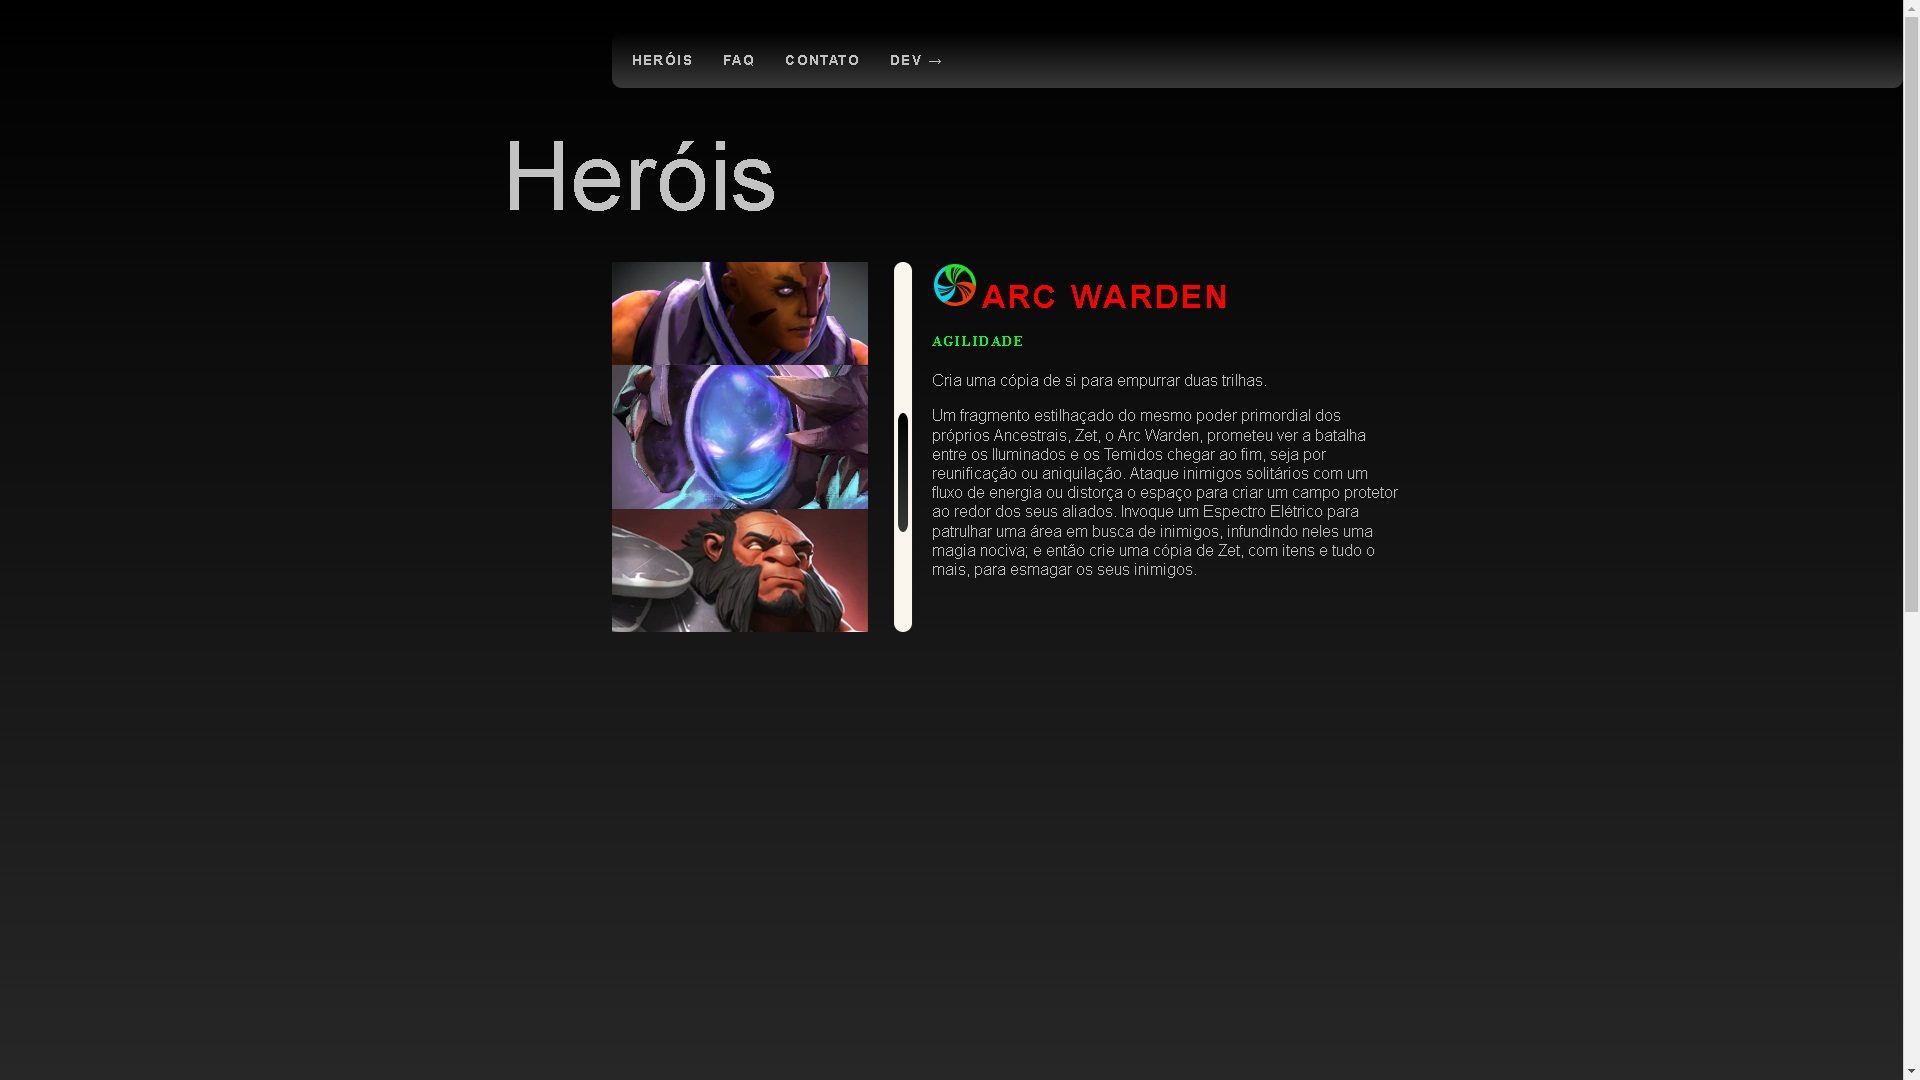
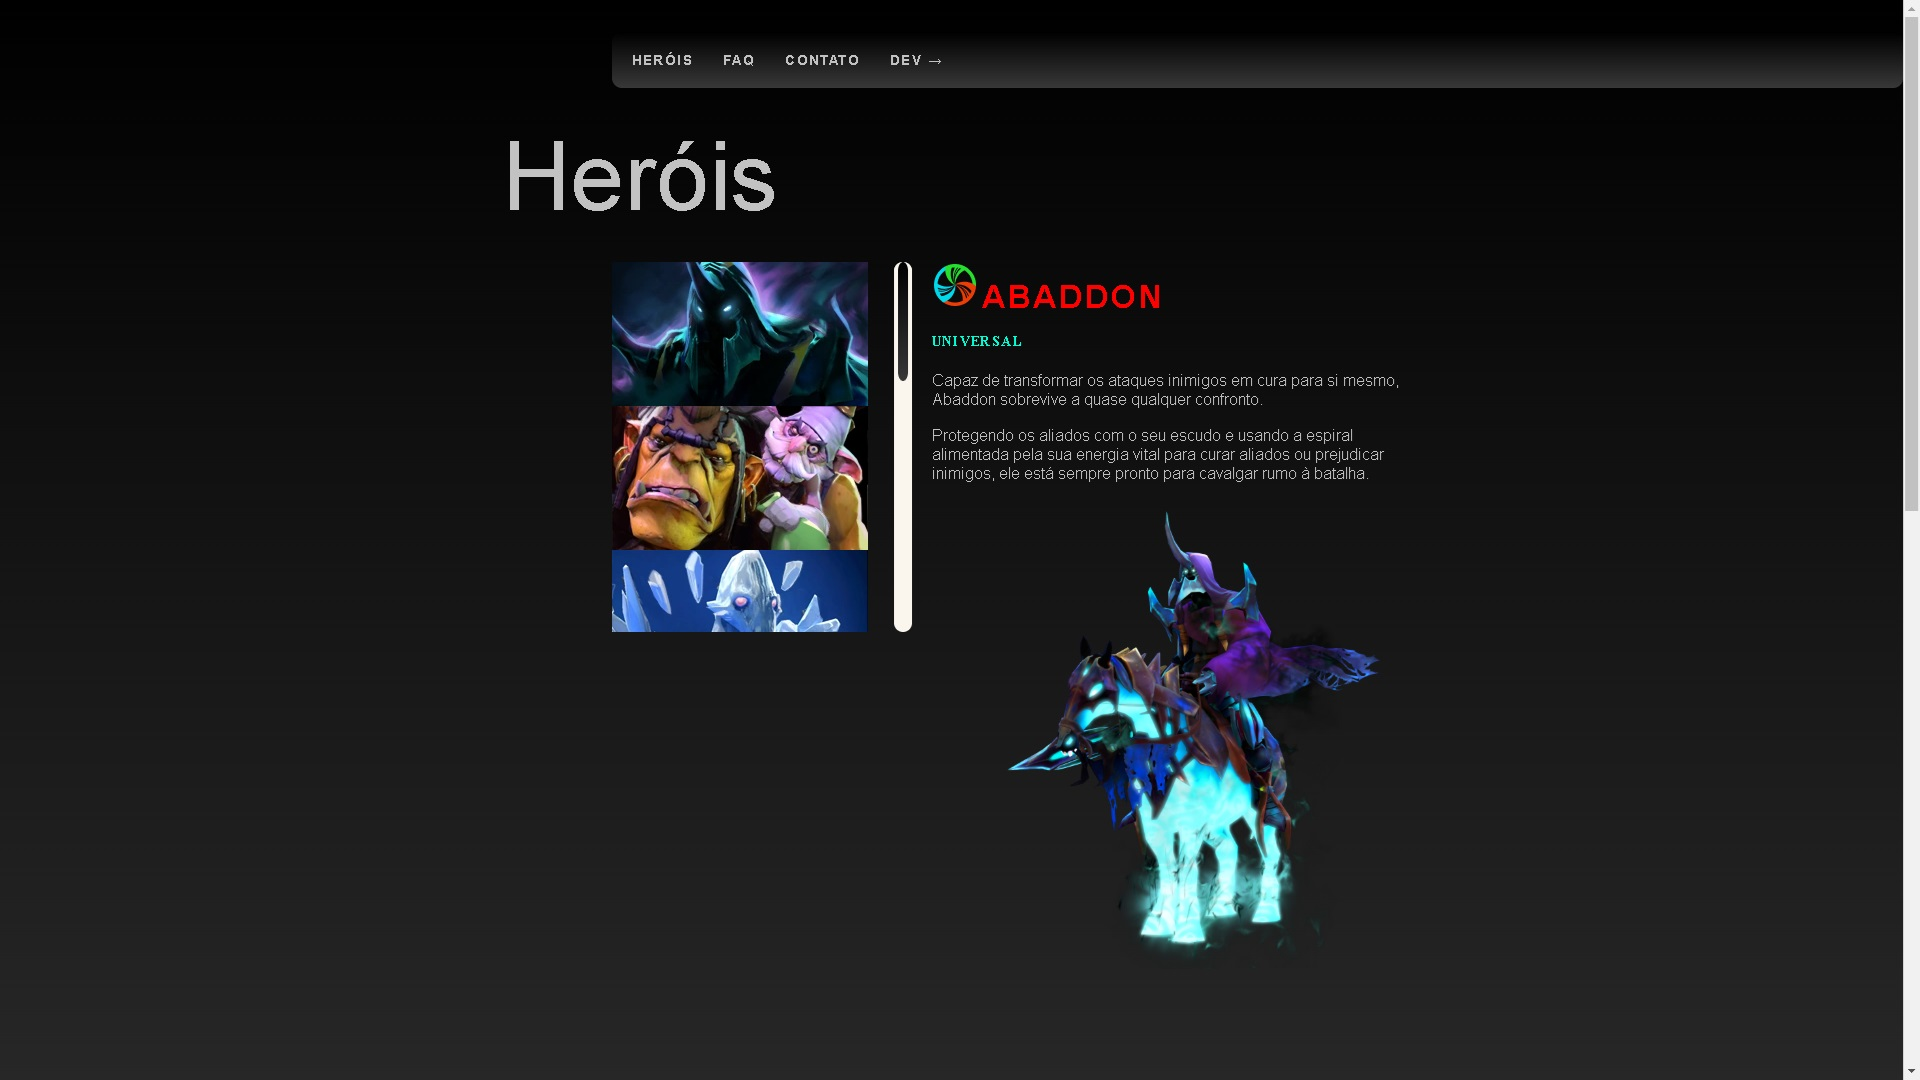
Adicionado o icone dos herois

Changed region(s): [[0.3125, 0.2444, 0.7188, 0.8861], [0.5312, 0.2444, 0.6562, 0.3056], [0.9688, 0.4583, 1.0, 0.5806]]

diff --git a/index.html b/index.html
@@ -58,6 +58,7 @@
         </div>
         <p>Capaz de transformar os ataques inimigos em cura para si mesmo, Abaddon sobrevive a quase qualquer confronto.</p>
         <p>Protegendo os aliados com o seu escudo e usando a espiral alimentada pela sua energia vital para curar aliados ou prejudicar inimigos, ele está sempre pronto para cavalgar rumo à batalha.</p>
+        <img src="./img/abaddon.png">
       </section>
       
       <section>
@@ -71,6 +72,7 @@
         </div>
         <p>Sintetizando recursos extras a partir de cada uma das suas vítimas, o Alchemist não tem problemas para adquirir as ferramentas necessárias para destruir os seus inimigos.</p>
         <p>Emboscando inimigos com ácidos corrosivos e misturas químicas instáveis, ele batalha para garantir que as suas ambiciosas escapadas continuem ininterruptas.</p>
+        <img src="./img/alchemist.png">
       </section>
       
       <section>
@@ -84,6 +86,7 @@
         </div>
         <p>Lança uma poderosa explosão gélida de qualquer lugar do mapa.</p>
         <p>Capaz de lançar uma poderosa explosão de gelo dilacerante através do campo de batalha, o Ancient Apparition pode estilhaçar inimigos enfraquecidos onde quer que estejam. Retardando os seus inimigos à medida que aumenta a efetividade dos seus aliados durante as batalhas, ele é uma ameaça constante aos seus adversários.</p>
+        <img src="./img/ancient_apparition.png">
       </section>
       
       <section>
@@ -98,6 +101,7 @@
         </div>
         <p>Corta os seus inimigos com ataques que drenam mana.</p>
         <p>Caso o Anti-Mage tenha a oportunidade de reunir toda a sua força, poucos podem frear as suas investidas. Drenando o mana dos seus inimigos a cada ataque ou se teletransportando por pequenas distâncias para fugir de uma emboscada, encurralá-lo é um desafio para qualquer inimigo.</p>
+        <img src="./img/antimage.png">
       </section>
       
       <section>
@@ -111,6 +115,7 @@
         </div>
         <p>Cria uma cópia de si para empurrar duas trilhas.</p>
         <p>Um fragmento estilhaçado do mesmo poder primordial dos próprios Ancestrais, Zet, o Arc Warden, prometeu ver a batalha entre os Iluminados e os Temidos chegar ao fim, seja por reunificação ou aniquilação. Ataque inimigos solitários com um fluxo de energia ou distorça o espaço para criar um campo protetor ao redor dos seus aliados. Invoque um Espectro Elétrico para patrulhar uma área em busca de inimigos, infundindo neles uma magia nociva; e então crie uma cópia de Zet, com itens e tudo o mais, para esmagar os seus inimigos.</p>
+        <img src="./img/arc_warden.png">
       </section>
       
       <section>
@@ -124,6 +129,7 @@
         </div>
         <p>Provoca e força inimigos a atacá-lo.</p>
         <p>Um após o outro, o Axe corta os seus inimigos. Marchando à frente da sua equipe, ele prende os inimigos em uma batalha e então revida os seus golpes com um giro mortal da sua arma. Passando a sua lâmina de abate através de um inimigo enfraquecido, ele está sempre avançando.</p>
+        <img src="./img/axe.png">
       </section>
       <section>
         <div class="hero-section">
@@ -136,6 +142,7 @@
         </div>
         <p>Cria magias com inúmeras combinações de habilidades.</p>
         <p>Com um intrincado arsenal de feitiços à sua disposição, o Invoker pode adaptar-se a qualquer situação. Cada combinação dos seus três componentes mágicos resulta em um dos seus dez feitiços, o que significa que ele nunca está sem uma forma de destruir ou escapar dos seus inimigos.</p>
+        <img src="./img/invoker(1).png">
       </section>
       <section>
         <div class="hero-section">
@@ -148,6 +155,7 @@
         </div>
         <p>Usa um gancho para puxar inimigos para perto.</p>
         <p>Cada lançamento cuidadosamente calculado do conhecido gancho do Pudge assusta os seus adversários. Puxando os seus inimigos para perto e cortá-los com os seus cutelos, Pudge recebe vida e dano adicionais a cada morte e logo se torna um assassino irrefreável.</p>
+        <img src="./img/pudge (1).png">
       </section>
     </div>
   </section>
